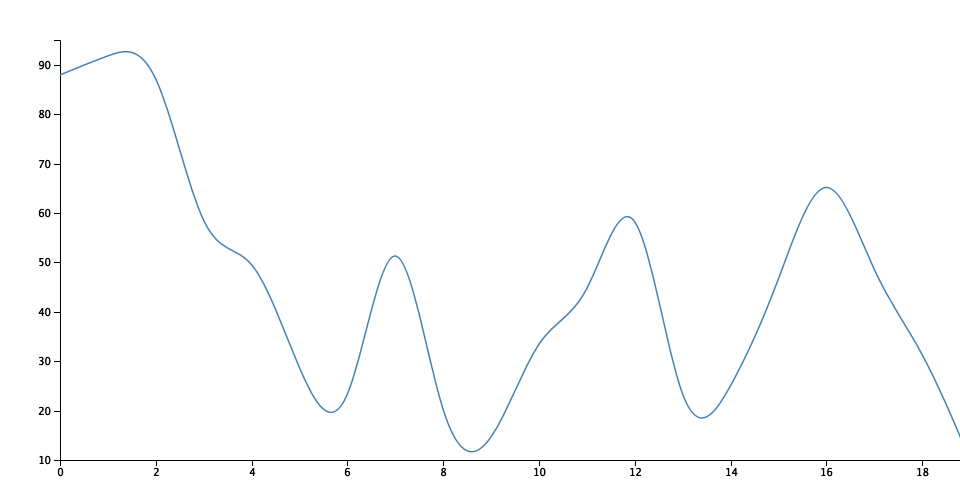
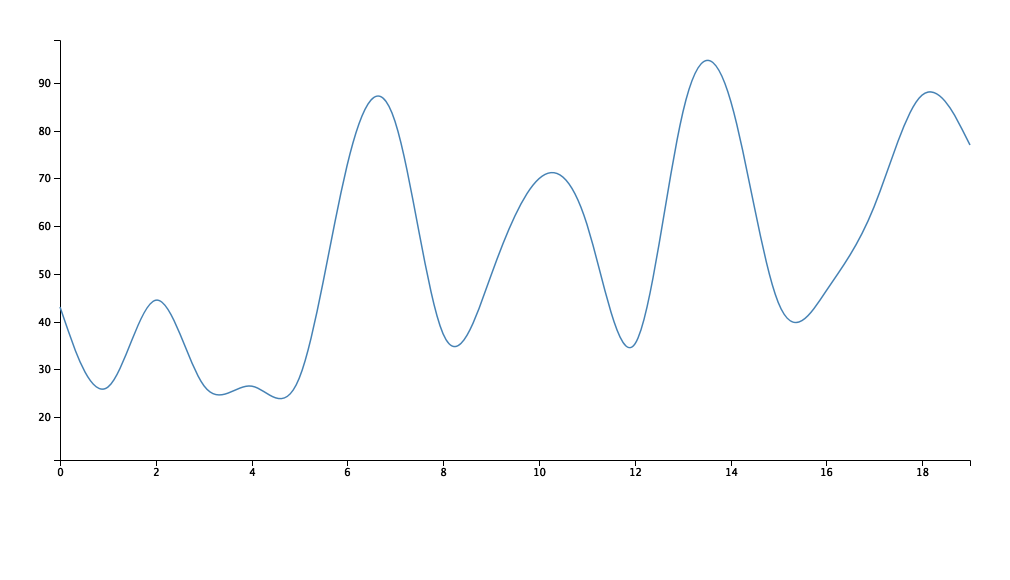
extract params; fix #1

diff --git a/example/output.html b/example/output.html
@@ -1,5 +1,5 @@
 <html><head></head><body><div id="container">
       <h2>Line Chart</h2>
-      <div id="chart"><svg xmlns="http://www.w3.org/2000/svg" width="960" height="500"><g transform="translate(30, 20)"><g transform="translate(30,20)"><g transform="translate(0, 420)" fill="none" font-size="10" font-family="sans-serif" text-anchor="middle"><path class="domain" stroke="#000" d="M0.5,6V0.5H910.5V6"></path><g class="tick" opacity="1" transform="translate(0,0)"><line stroke="#000" y2="6" x1="0.5" x2="0.5"></line><text fill="#000" y="9" x="0.5" dy="0.71em">0</text></g><g class="tick" opacity="1" transform="translate(96,0)"><line stroke="#000" y2="6" x1="0.5" x2="0.5"></line><text fill="#000" y="9" x="0.5" dy="0.71em">2</text></g><g class="tick" opacity="1" transform="translate(192,0)"><line stroke="#000" y2="6" x1="0.5" x2="0.5"></line><text fill="#000" y="9" x="0.5" dy="0.71em">4</text></g><g class="tick" opacity="1" transform="translate(287,0)"><line stroke="#000" y2="6" x1="0.5" x2="0.5"></line><text fill="#000" y="9" x="0.5" dy="0.71em">6</text></g><g class="tick" opacity="1" transform="translate(383,0)"><line stroke="#000" y2="6" x1="0.5" x2="0.5"></line><text fill="#000" y="9" x="0.5" dy="0.71em">8</text></g><g class="tick" opacity="1" transform="translate(479,0)"><line stroke="#000" y2="6" x1="0.5" x2="0.5"></line><text fill="#000" y="9" x="0.5" dy="0.71em">10</text></g><g class="tick" opacity="1" transform="translate(575,0)"><line stroke="#000" y2="6" x1="0.5" x2="0.5"></line><text fill="#000" y="9" x="0.5" dy="0.71em">12</text></g><g class="tick" opacity="1" transform="translate(671,0)"><line stroke="#000" y2="6" x1="0.5" x2="0.5"></line><text fill="#000" y="9" x="0.5" dy="0.71em">14</text></g><g class="tick" opacity="1" transform="translate(766,0)"><line stroke="#000" y2="6" x1="0.5" x2="0.5"></line><text fill="#000" y="9" x="0.5" dy="0.71em">16</text></g><g class="tick" opacity="1" transform="translate(862,0)"><line stroke="#000" y2="6" x1="0.5" x2="0.5"></line><text fill="#000" y="9" x="0.5" dy="0.71em">18</text></g></g><g fill="none" font-size="10" font-family="sans-serif" text-anchor="end"><path class="domain" stroke="#000" d="M-6,420.5H0.5V0.5H-6"></path><g class="tick" opacity="1" transform="translate(0,420)"><line stroke="#000" x2="-6" y1="0.5" y2="0.5"></line><text fill="#000" x="-9" y="0.5" dy="0.32em">10</text></g><g class="tick" opacity="1" transform="translate(0,371)"><line stroke="#000" x2="-6" y1="0.5" y2="0.5"></line><text fill="#000" x="-9" y="0.5" dy="0.32em">20</text></g><g class="tick" opacity="1" transform="translate(0,321)"><line stroke="#000" x2="-6" y1="0.5" y2="0.5"></line><text fill="#000" x="-9" y="0.5" dy="0.32em">30</text></g><g class="tick" opacity="1" transform="translate(0,272)"><line stroke="#000" x2="-6" y1="0.5" y2="0.5"></line><text fill="#000" x="-9" y="0.5" dy="0.32em">40</text></g><g class="tick" opacity="1" transform="translate(0,222)"><line stroke="#000" x2="-6" y1="0.5" y2="0.5"></line><text fill="#000" x="-9" y="0.5" dy="0.32em">50</text></g><g class="tick" opacity="1" transform="translate(0,173)"><line stroke="#000" x2="-6" y1="0.5" y2="0.5"></line><text fill="#000" x="-9" y="0.5" dy="0.32em">60</text></g><g class="tick" opacity="1" transform="translate(0,124)"><line stroke="#000" x2="-6" y1="0.5" y2="0.5"></line><text fill="#000" x="-9" y="0.5" dy="0.32em">70</text></g><g class="tick" opacity="1" transform="translate(0,74)"><line stroke="#000" x2="-6" y1="0.5" y2="0.5"></line><text fill="#000" x="-9" y="0.5" dy="0.32em">80</text></g><g class="tick" opacity="1" transform="translate(0,25)"><line stroke="#000" x2="-6" y1="0.5" y2="0.5"></line><text fill="#000" x="-9" y="0.5" dy="0.32em">90</text></g><text fill="#000" transform="rotate(-90)" y="6" dy="0.71em"></text></g><path fill="none" stroke="steelblue" stroke-width="1.5" d="M0,35L8,31.666666666666668C16,28.333333333333332,32,21.666666666666668,48,15.833333333333334C64,10,80,5,96,39.5C112,74,128,148,144,181C160,214,176,206,191.83333333333334,225C207.66666666666666,244,223.33333333333334,290,239.16666666666666,327C255,364,271,392,287,355C303,318,319,216,335,216C351,216,367,318,383,369C399,420,415,420,431,397C447,374,463,328,479,304.1666666666667C495,280.3333333333333,511,278.6666666666667,527,248.16666666666666C543,217.66666666666666,559,158.33333333333334,575,182.16666666666666C591,206,607,313,623,355C639,397,655,374,670.8333333333334,345.1666666666667C686.6666666666666,316.3333333333333,702.3333333333334,281.6666666666667,718.1666666666666,239.66666666666666C734,197.66666666666666,750,148.33333333333334,766,147.5C782,146.66666666666666,798,194.33333333333334,814,228.83333333333334C830,263.3333333333333,846,284.6666666666667,862,314.3333333333333C878,344,894,382,902,401L910,420"></path></g></g></svg></div>
+      <div id="chart"><svg xmlns="http://www.w3.org/2000/svg" width="1010" height="580"><g transform="translate(30, 20)"><g transform="translate(30,20)"><g transform="translate(0, 420)" fill="none" font-size="10" font-family="sans-serif" text-anchor="middle"><path class="domain" stroke="#000" d="M0.5,6V0.5H910.5V6"></path><g class="tick" opacity="1" transform="translate(0,0)"><line stroke="#000" y2="6" x1="0.5" x2="0.5"></line><text fill="#000" y="9" x="0.5" dy="0.71em">0</text></g><g class="tick" opacity="1" transform="translate(96,0)"><line stroke="#000" y2="6" x1="0.5" x2="0.5"></line><text fill="#000" y="9" x="0.5" dy="0.71em">2</text></g><g class="tick" opacity="1" transform="translate(192,0)"><line stroke="#000" y2="6" x1="0.5" x2="0.5"></line><text fill="#000" y="9" x="0.5" dy="0.71em">4</text></g><g class="tick" opacity="1" transform="translate(287,0)"><line stroke="#000" y2="6" x1="0.5" x2="0.5"></line><text fill="#000" y="9" x="0.5" dy="0.71em">6</text></g><g class="tick" opacity="1" transform="translate(383,0)"><line stroke="#000" y2="6" x1="0.5" x2="0.5"></line><text fill="#000" y="9" x="0.5" dy="0.71em">8</text></g><g class="tick" opacity="1" transform="translate(479,0)"><line stroke="#000" y2="6" x1="0.5" x2="0.5"></line><text fill="#000" y="9" x="0.5" dy="0.71em">10</text></g><g class="tick" opacity="1" transform="translate(575,0)"><line stroke="#000" y2="6" x1="0.5" x2="0.5"></line><text fill="#000" y="9" x="0.5" dy="0.71em">12</text></g><g class="tick" opacity="1" transform="translate(671,0)"><line stroke="#000" y2="6" x1="0.5" x2="0.5"></line><text fill="#000" y="9" x="0.5" dy="0.71em">14</text></g><g class="tick" opacity="1" transform="translate(766,0)"><line stroke="#000" y2="6" x1="0.5" x2="0.5"></line><text fill="#000" y="9" x="0.5" dy="0.71em">16</text></g><g class="tick" opacity="1" transform="translate(862,0)"><line stroke="#000" y2="6" x1="0.5" x2="0.5"></line><text fill="#000" y="9" x="0.5" dy="0.71em">18</text></g></g><g fill="none" font-size="10" font-family="sans-serif" text-anchor="end"><path class="domain" stroke="#000" d="M-6,420.5H0.5V0.5H-6"></path><g class="tick" opacity="1" transform="translate(0,377)"><line stroke="#000" x2="-6" y1="0.5" y2="0.5"></line><text fill="#000" x="-9" y="0.5" dy="0.32em">20</text></g><g class="tick" opacity="1" transform="translate(0,329)"><line stroke="#000" x2="-6" y1="0.5" y2="0.5"></line><text fill="#000" x="-9" y="0.5" dy="0.32em">30</text></g><g class="tick" opacity="1" transform="translate(0,282)"><line stroke="#000" x2="-6" y1="0.5" y2="0.5"></line><text fill="#000" x="-9" y="0.5" dy="0.32em">40</text></g><g class="tick" opacity="1" transform="translate(0,234)"><line stroke="#000" x2="-6" y1="0.5" y2="0.5"></line><text fill="#000" x="-9" y="0.5" dy="0.32em">50</text></g><g class="tick" opacity="1" transform="translate(0,186)"><line stroke="#000" x2="-6" y1="0.5" y2="0.5"></line><text fill="#000" x="-9" y="0.5" dy="0.32em">60</text></g><g class="tick" opacity="1" transform="translate(0,138)"><line stroke="#000" x2="-6" y1="0.5" y2="0.5"></line><text fill="#000" x="-9" y="0.5" dy="0.32em">70</text></g><g class="tick" opacity="1" transform="translate(0,91)"><line stroke="#000" x2="-6" y1="0.5" y2="0.5"></line><text fill="#000" x="-9" y="0.5" dy="0.32em">80</text></g><g class="tick" opacity="1" transform="translate(0,43)"><line stroke="#000" x2="-6" y1="0.5" y2="0.5"></line><text fill="#000" x="-9" y="0.5" dy="0.32em">90</text></g><text fill="#000" transform="rotate(-90)" y="6" dy="0.71em"></text></g><path fill="none" stroke="steelblue" stroke-width="1.5" d="M0,267L8,290.1666666666667C16,313.3333333333333,32,359.6666666666667,48,347C64,334.3333333333333,80,262.6666666666667,96,260.1666666666667C112,257.6666666666667,128,324.3333333333333,144,345.8333333333333C160,367.3333333333333,176,343.6666666666667,191.83333333333334,346.1666666666667C207.66666666666666,348.6666666666667,223.33333333333334,377.3333333333333,239.16666666666666,338.3333333333333C255,299.3333333333333,271,192.66666666666666,287,125.83333333333333C303,59,319,32,335,81.33333333333333C351,130.66666666666666,367,256.3333333333333,383,293.6666666666667C399,331,415,280,431,235.5C447,191,463,153,479,138.66666666666666C495,124.33333333333333,511,133.66666666666666,527,184.5C543,235.33333333333334,559,327.6666666666667,575,303.8333333333333C591,280,607,140,623,71.66666666666667C639,3.3333333333333335,655,6.666666666666667,670.8333333333334,61.5C686.6666666666666,116.33333333333333,702.3333333333334,222.66666666666666,718.1666666666666,262.3333333333333C734,302,750,275,766,251.16666666666666C782,227.33333333333334,798,206.66666666666666,814,167C830,127.33333333333333,846,68.66666666666667,862,55.166666666666664C878,41.666666666666664,894,73.33333333333333,902,89.16666666666667L910,105"></path></g></g></svg></div>
     </div>
   </body></html>

diff --git a/index.js b/index.js
@@ -2,34 +2,38 @@ const D3Node = require('d3-node');
 
 function line({
   data,
-  selector: defaultSelector = '#chart',
-  container: defaultContainer = `
+  selector: _selector = '#chart',
+  container: _container = `
     <div id="container">
       <h2>Line Chart</h2>
       <div id="chart"></div>
     </div>
   `,
-  style: defaultStyle = '',
+  style: _style = '',
+  width: _width = 960,
+  height: _height = 500,
+  margin: _margin = { top: 20, right: 20, bottom: 60, left: 30 },
+  lineWidth: _lineWidth = 1.5,
+  lineColor: _lineColor = 'steelblue',
 } = {}) {
   const d3n = new D3Node({
-    selector: defaultSelector,
-    svgStyles: defaultStyle,
-    container: defaultContainer,
+    selector: _selector,
+    svgStyles: _style,
+    container: _container,
   });
 
   const d3 = d3n.d3;
 
-  const margin = { top: 20, right: 20, bottom: 60, left: 30 };
-  const width = 960 - margin.left - margin.right;
-  const height = 500 - margin.top - margin.bottom;
+  const width = _width - _margin.left - _margin.right;
+  const height = _height - _margin.top - _margin.bottom;
 
   const svg = d3n.createSVG()
-        .attr('width', width + margin.left + margin.right)
-        .attr('height', height + margin.top + margin.bottom)
+        .attr('width', _width + _margin.left + _margin.right)
+        .attr('height', _height + _margin.top + _margin.bottom)
         .append('g')
-        .attr('transform', `translate(${margin.left}, ${margin.top})`);
+        .attr('transform', `translate(${_margin.left}, ${_margin.top})`);
 
-  const g = svg.append('g').attr('transform', `translate(${margin.left},${margin.top})`);
+  const g = svg.append('g').attr('transform', `translate(${_margin.left},${_margin.top})`);
 
 
   const x = d3.scaleLinear()
@@ -62,8 +66,8 @@ function line({
   g.append('path')
     .datum(data)
     .attr('fill', 'none')
-    .attr('stroke', 'steelblue')
-    .attr('stroke-width', 1.5)
+    .attr('stroke', _lineColor)
+    .attr('stroke-width', _lineWidth)
     .attr('d', lineChart);
 
   return d3n;
